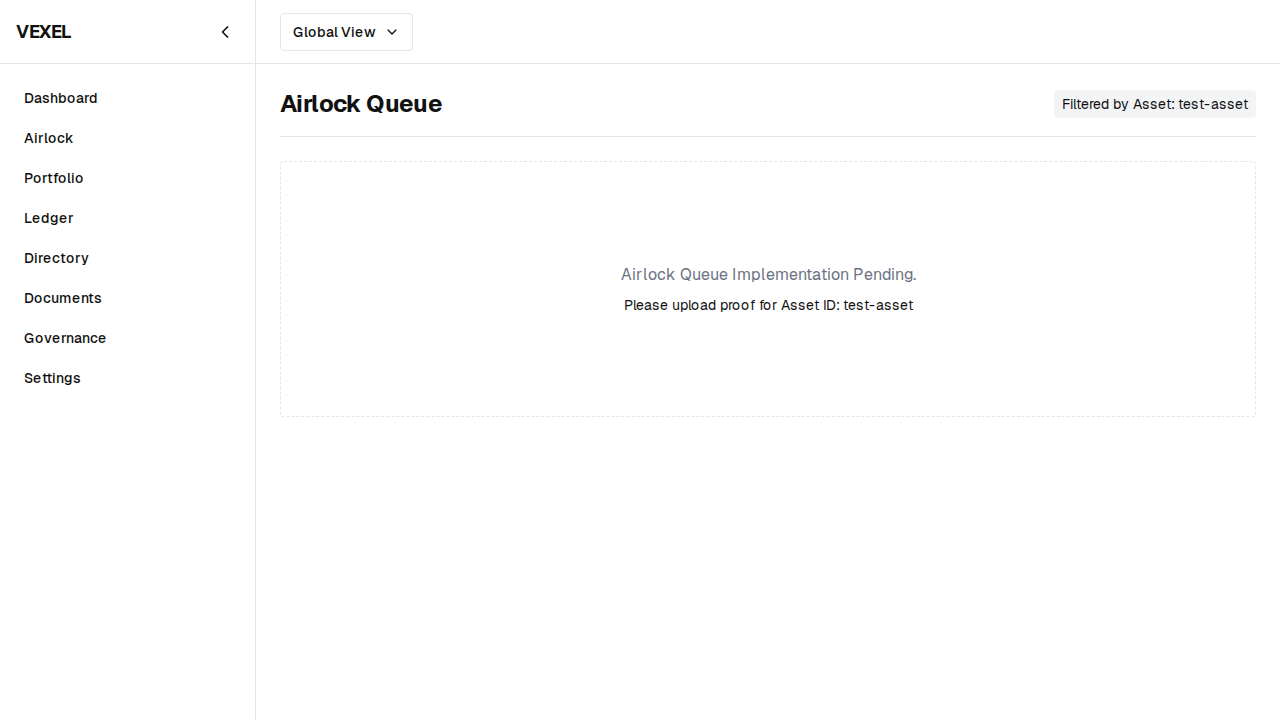
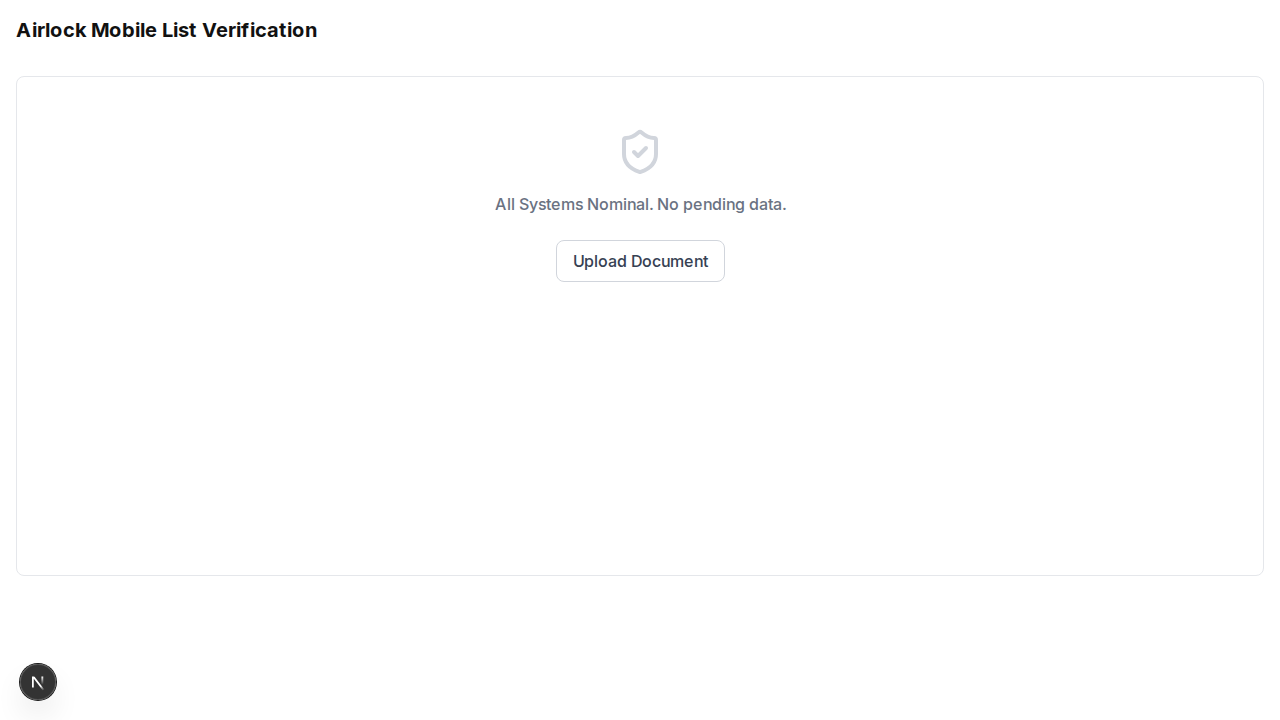
feat(airlock): implement 'All Systems Nominal' empty state
- Updated `AirlockMobileList` to display a 'Safe State' visualization when the queue is empty.
- Replaced generic text with 'All Systems Nominal. No pending data.' and a `ShieldCheck` icon.
- Added a 'Upload Document' button to the empty state.
- Added `onUpload` prop to `AirlockMobileList` to handle the upload action.
- Added test case for the empty state in `AirlockMobileList.test.tsx`.
- Verified UI changes with Playwright screenshot.

diff --git a/src/components/airlock/AirlockMobileList.tsx b/src/components/airlock/AirlockMobileList.tsx
@@ -1,16 +1,17 @@
 import React, { useState } from 'react';
 import { AirlockItem } from '@/lib/types';
 import { AirlockMobileCard } from './AirlockMobileCard';
-import { Check, Edit, Loader2 } from 'lucide-react';
+import { Check, Edit, Loader2, ShieldCheck } from 'lucide-react';
 
 interface AirlockMobileListProps {
   items: AirlockItem[];
   onItemClick: (item: AirlockItem) => void;
   onApprove: (id: string) => Promise<void>;
   onRemove: (id: string) => void;
+  onUpload?: () => void;
 }
 
-export function AirlockMobileList({ items, onItemClick, onApprove, onRemove }: AirlockMobileListProps) {
+export function AirlockMobileList({ items, onItemClick, onApprove, onRemove, onUpload }: AirlockMobileListProps) {
   const [selectedId, setSelectedId] = useState<string | null>(null);
   const [processingId, setProcessingId] = useState<string | null>(null);
   const [exitingIds, setExitingIds] = useState<Set<string>>(new Set());
@@ -56,8 +57,15 @@ export function AirlockMobileList({ items, onItemClick, onApprove, onRemove }: A
 
   if (!items || items.length === 0) {
     return (
-      <div className="flex flex-col items-center justify-center h-64 text-gray-500">
-        <p>No items in the queue.</p>
+      <div className="flex flex-col items-center justify-center h-64 text-center">
+        <ShieldCheck className="w-12 h-12 text-gray-300 mb-4" />
+        <p className="text-gray-500 font-medium mb-6">All Systems Nominal. No pending data.</p>
+        <button
+          onClick={onUpload}
+          className="flex items-center gap-2 px-4 py-2 border border-gray-300 rounded-lg hover:bg-gray-50 text-gray-700 font-medium transition-colors"
+        >
+          Upload Document
+        </button>
       </div>
     );
   }

diff --git a/src/components/airlock/__tests__/AirlockMobileList.test.tsx b/src/components/airlock/__tests__/AirlockMobileList.test.tsx
@@ -122,4 +122,23 @@ describe('AirlockMobileList', () => {
 
     expect(mockOnItemClick).toHaveBeenCalledWith(mockItems[0]);
   });
+
+  it('renders empty state correctly', () => {
+    const mockOnUpload = jest.fn();
+    render(
+      <AirlockMobileList
+        items={[]}
+        onItemClick={mockOnItemClick}
+        onApprove={mockOnApprove}
+        onRemove={mockOnRemove}
+        onUpload={mockOnUpload}
+      />
+    );
+
+    expect(screen.getByText('All Systems Nominal. No pending data.')).toBeInTheDocument();
+    expect(screen.getByText('Upload Document')).toBeInTheDocument();
+
+    fireEvent.click(screen.getByText('Upload Document'));
+    expect(mockOnUpload).toHaveBeenCalled();
+  });
 });
